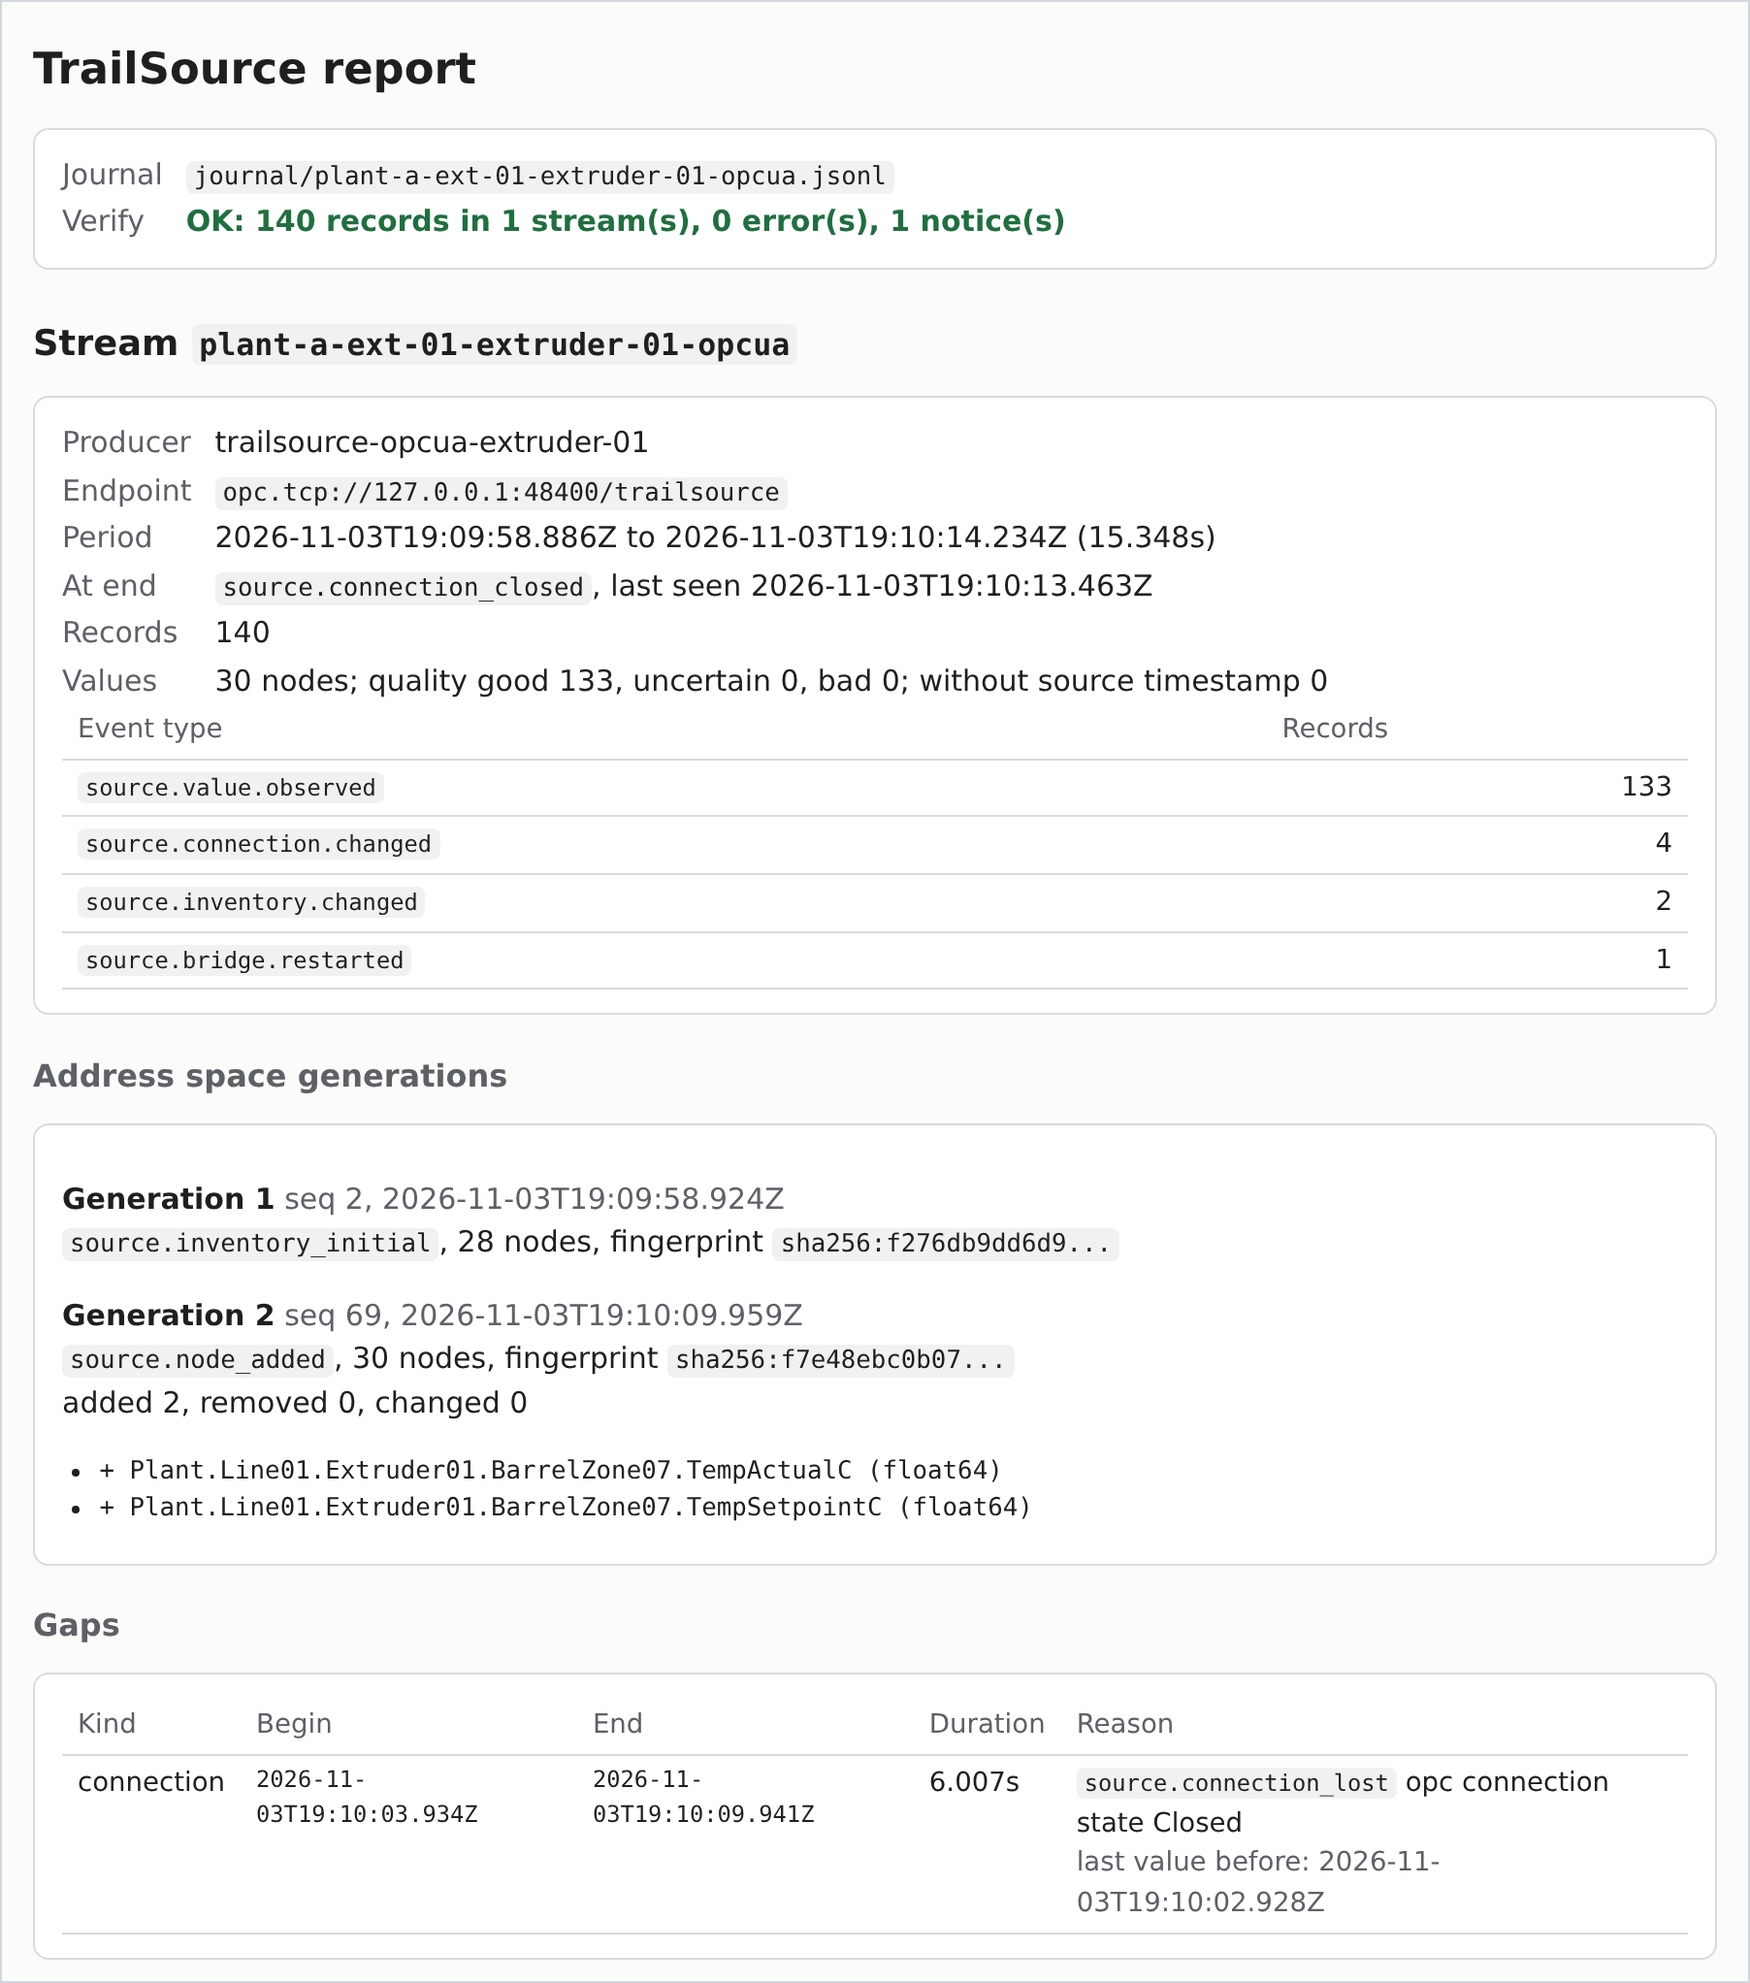
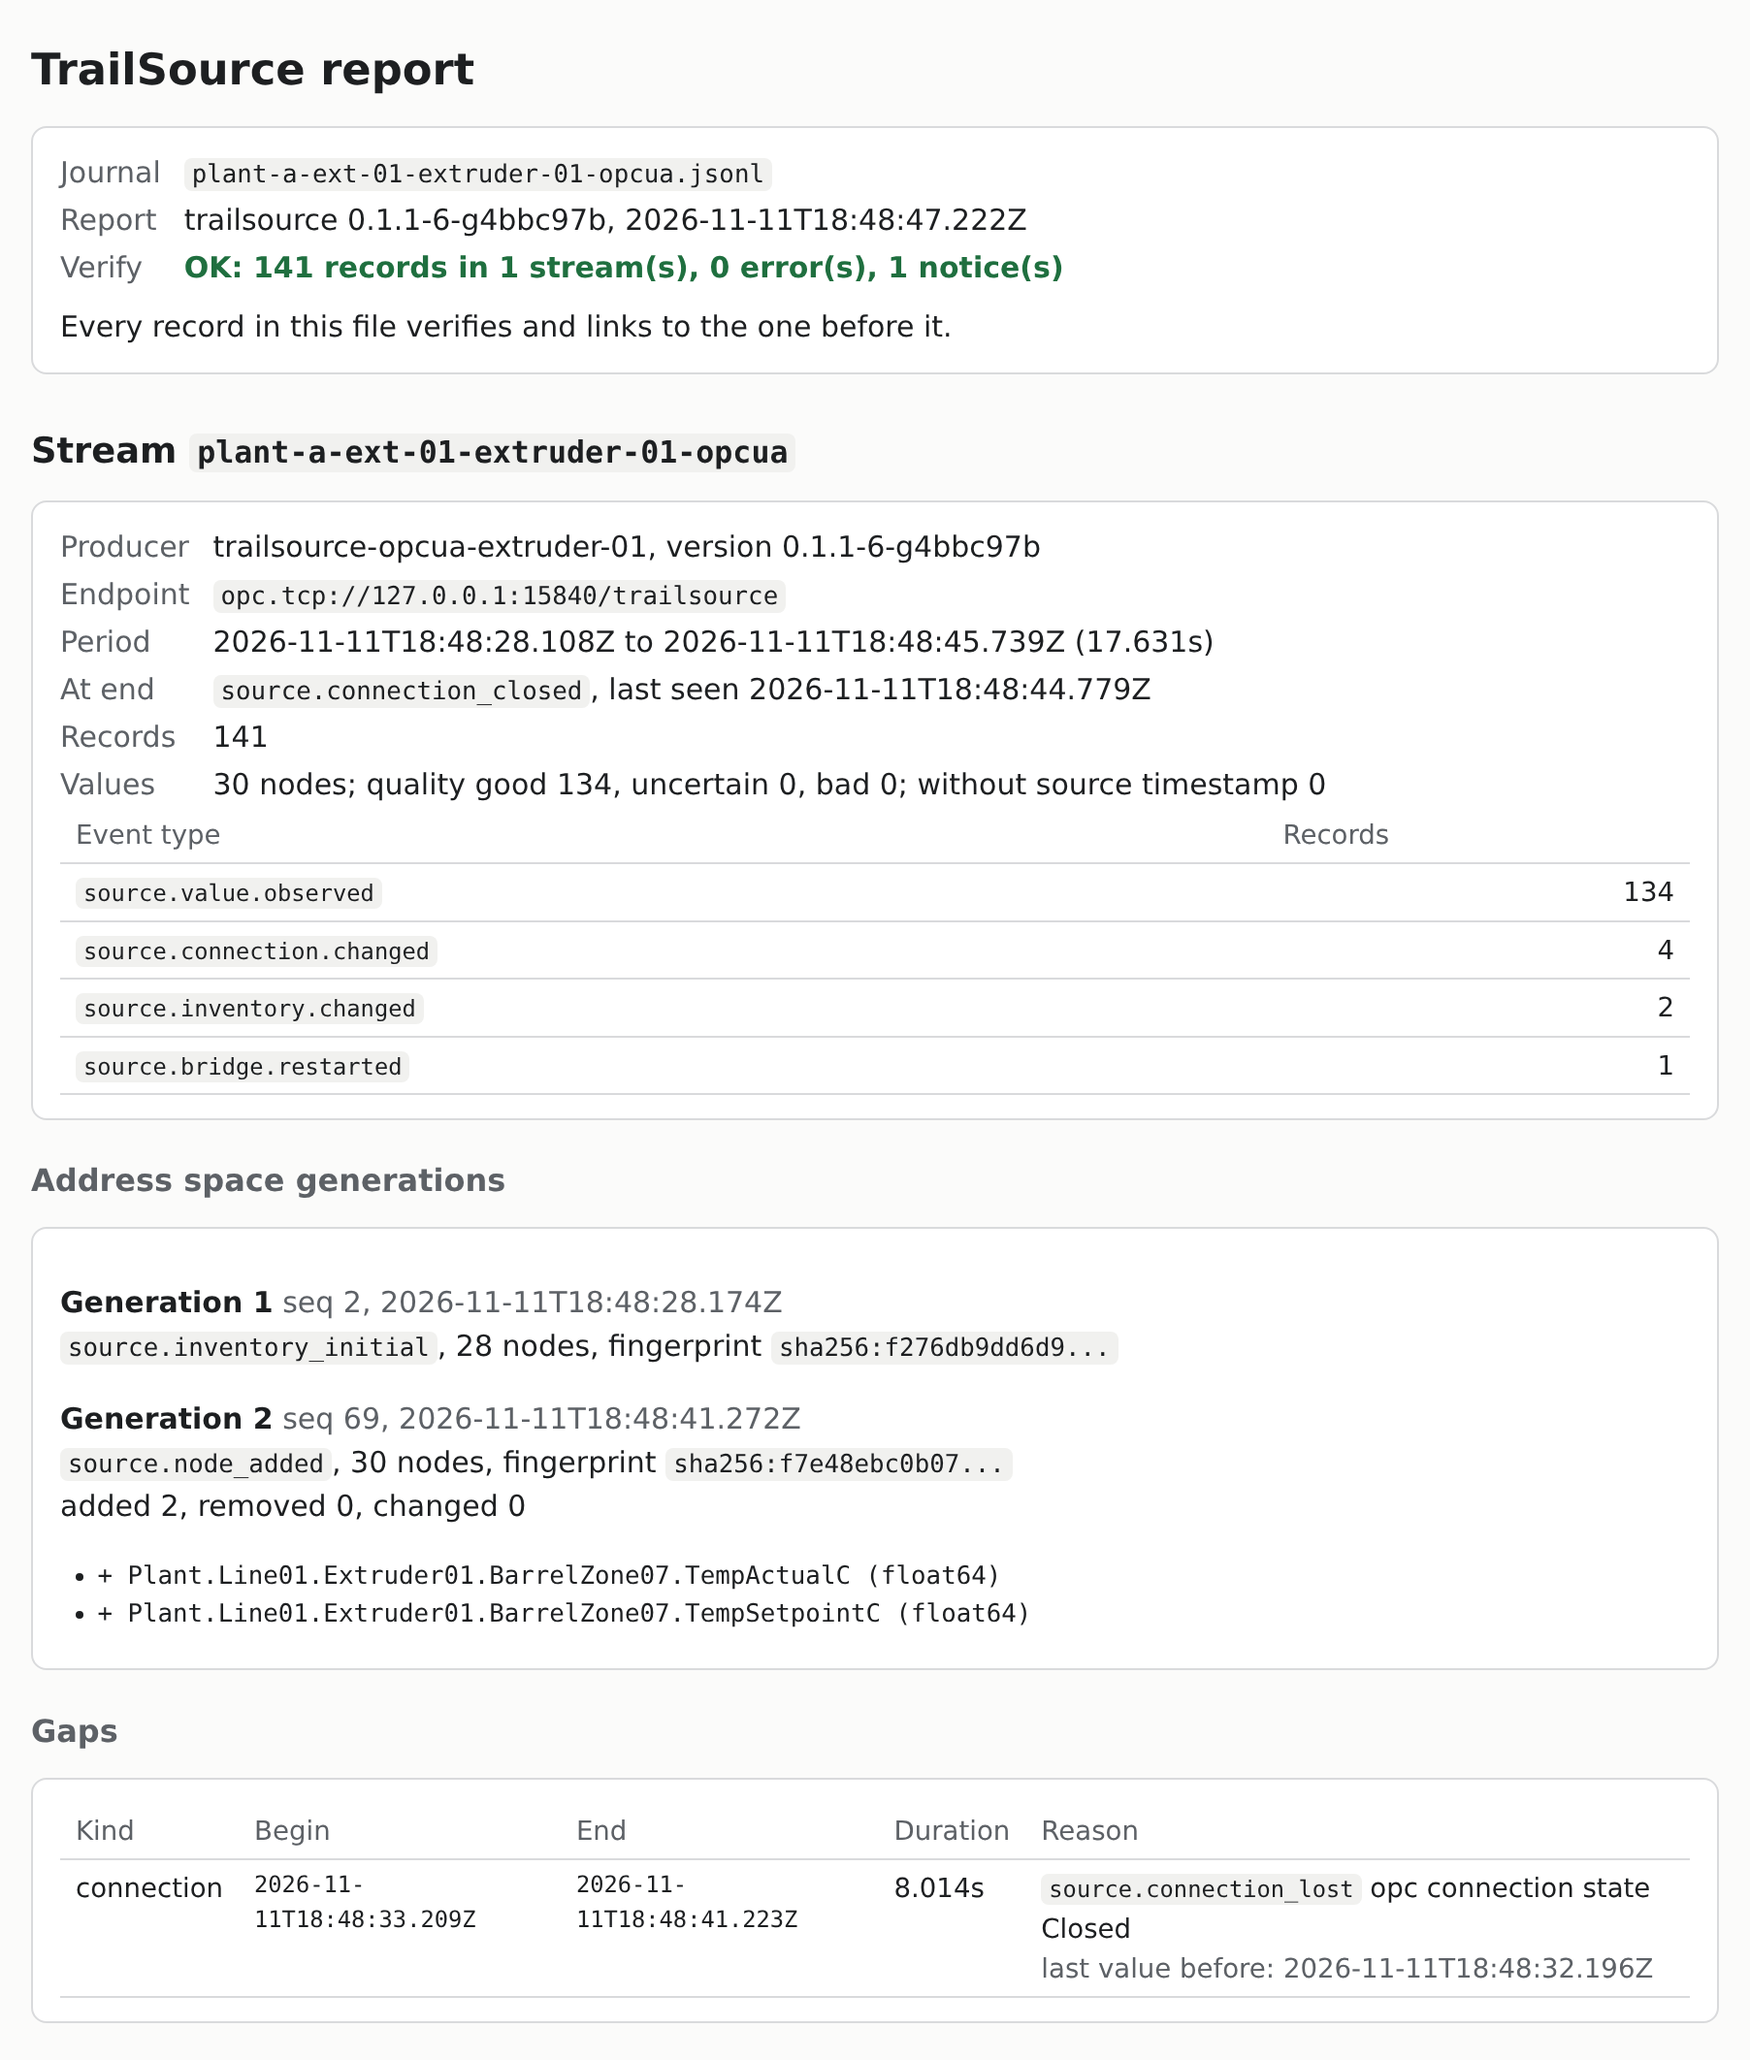
docs(readme): screenshot of the report as it is now
The screenshot showed the report of 0.1.1: no verdict sentence, no
report version and time, the producer without its version. Taken from
make scenario-server-restart on 11 November with this branch, at 902 px
width and device scale 2 like the previous one; the alt text and the
caption name what it shows.

diff --git a/README.md b/README.md
@@ -16,12 +16,13 @@ Status: v0.1, OPC UA only, read-only. The Modbus TCP and EtherNet/IP
 adapters in this repository are a preview and not part of the 0.1 gate
 (see "Preview adapters" below).
 
-![TrailSource HTML report. Verify OK: 140 records in 1 stream, 0 errors, 1 notice. Stream plant-a-ext-01-extruder-01-opcua with 133 value observations from 30 nodes, all of good quality. Address space generation 2 adds Plant.Line01.Extruder01.BarrelZone07.TempActualC and TempSetpointC. One connection gap of 6.007 seconds with the reason source.connection_lost and the last value before the gap.](docs/screenshots/report-server-restart.png)
+![TrailSource HTML report of a development build. Verify OK: 141 records in 1 stream, 0 errors, 1 notice; every record in the file verifies and links to the one before it. Stream plant-a-ext-01-extruder-01-opcua with 134 value observations from 30 nodes, all of good quality. Address space generation 2 adds Plant.Line01.Extruder01.BarrelZone07.TempActualC and TempSetpointC. One connection gap of 8.014 seconds with the reason source.connection_lost and the last value before the gap.](docs/screenshots/report-server-restart.png)
 
 *`trailsource report --html` for the journal of `make
-scenario-server-restart`, a local run against the bundled simulator: the
-server comes back after a six-second gap with two new variables, and the
-report names both the gap and the new address-space generation.*
+scenario-server-restart`, a local run against the bundled simulator on
+11 November 2026 (ports moved with `SCENARIO_OPC_PORT`): the server comes
+back after an eight-second gap with two new variables, and the report
+names both the gap and the new address-space generation.*
 
 ## Three questions this answers
 
